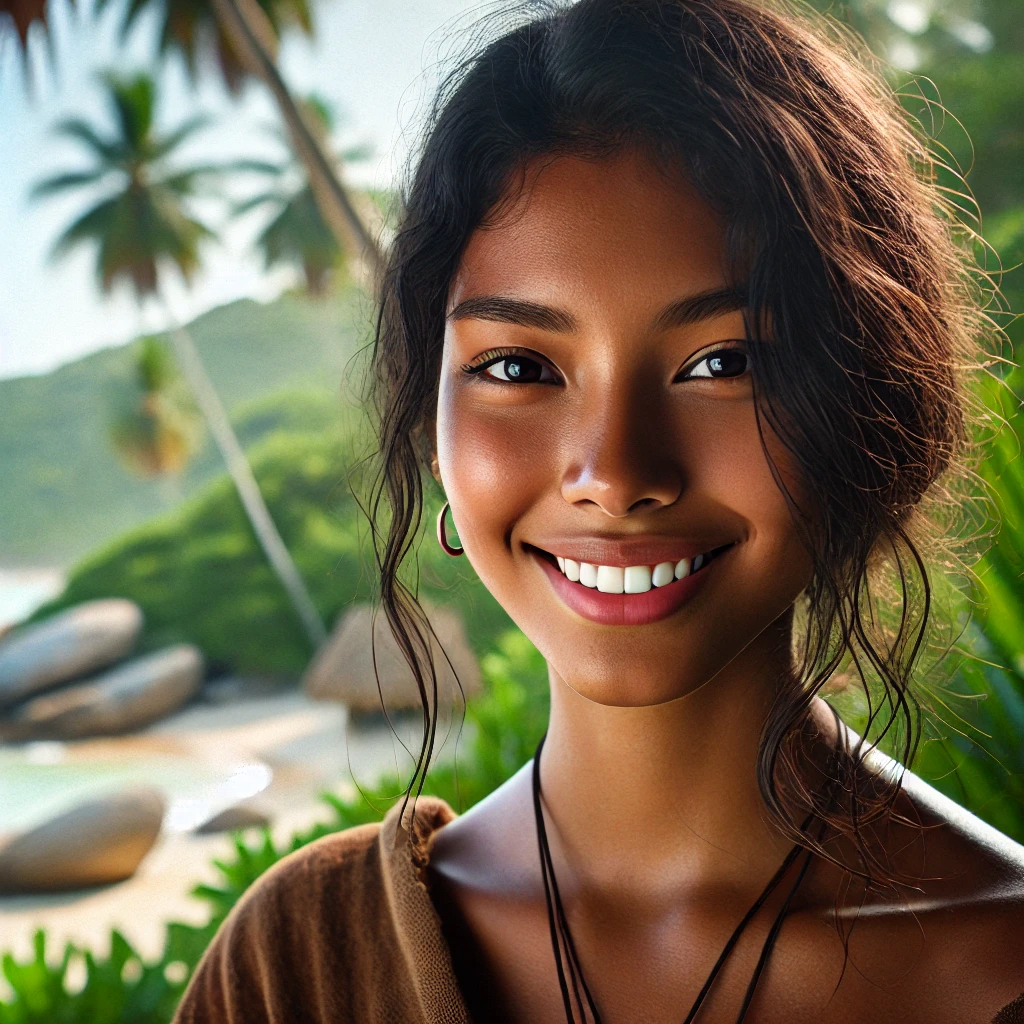
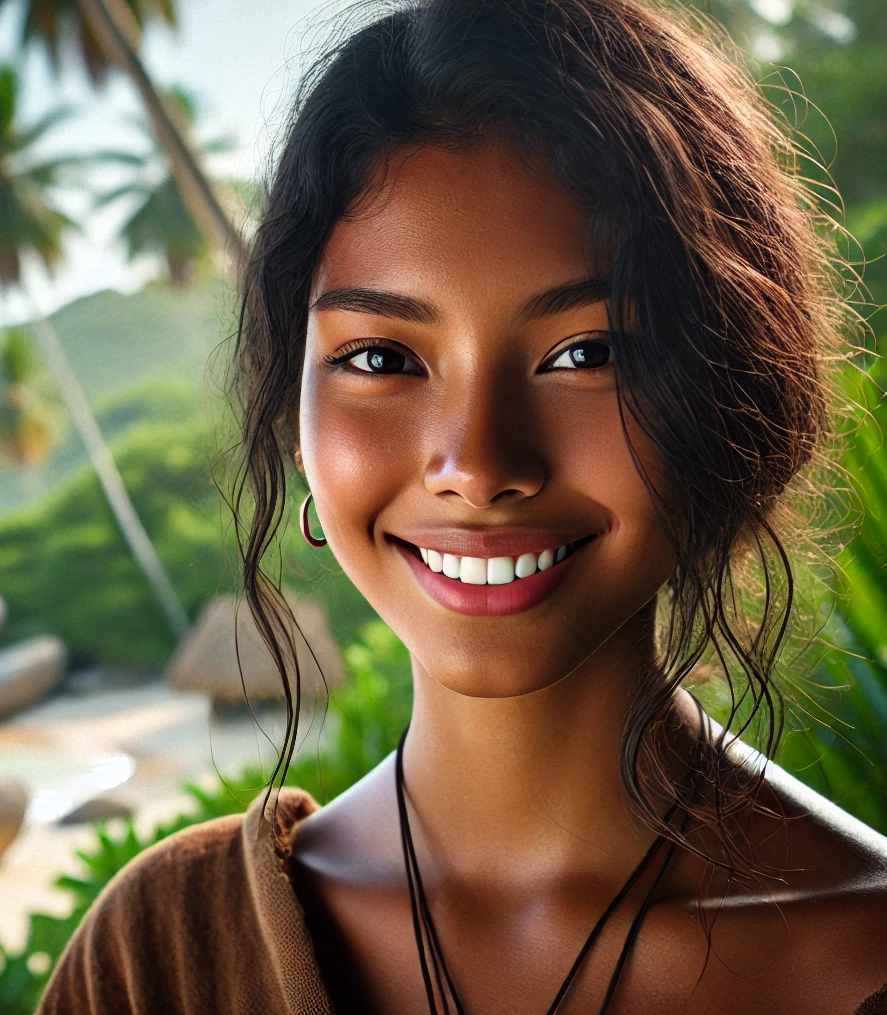
Ajustando responsive

diff --git a/Login/style.css/login.css b/Login/style.css/login.css
@@ -30,7 +30,7 @@
     flex-direction: column;
     min-height: 100vh;
     height: 100%;
-    overflow: hidden;
+    overflow: flex;
   }
   
   /* Estilos del header basados en el diseño de Figma */
@@ -60,7 +60,7 @@
   
   .navbar {
     display: flex;
-    gap: 1rem;
+    gap: 8rem;
     align-items: center;
   }
   
@@ -79,7 +79,7 @@
   .navbar-actions {
     display: flex;
     align-items: center;
-    gap: 1.5rem;
+    gap: 2rem;
   }
   
   .btn-login,
@@ -115,26 +115,39 @@
     align-items: center;
   }
   
-  /* Estilos del contenido principal */
+
+.button-container {
+  display: flex;
+  justify-content: center;
+  width: 35rem;
+}
+
+
   .login-container {
     display: flex;
     flex: 1;
     height: calc(100vh - 7.5rem); /* Altura total menos la altura del header */
     margin-top: 7.5rem; /* Altura del header */
+    text-shadow: 0.5px 0.5px;
+
   }
   
-  .login-image {
-    flex: 1;
+  .login-image{
     background-color:transparent; 
     display: flex;
+    width: 400px;
+    height: auto;
+    border-radius: 10px;
+    max-width: 100%;
     overflow: hidden;
   }
   
   .login-form-container {
-    flex: 1;
-    display: flex;
-    justify-content:  center;
-    align-items: center  ;
+      flex: 1;
+      display: flex;
+      justify-content:  center;
+      align-items: center  ;
+      padding: 5%;
   }
   
   .login-form-wrapper {
@@ -142,14 +155,15 @@
     max-width: 30rem;
     display: flex;
     flex-direction: column;
-    padding: 2rem;
+    padding: 1rem;
     align-items: center;
   }
 
   .logo-container{
     display: flex;
     justify-content: center;
-    margin-bottom: 1rem;
+    margin-bottom: 0rem;
+    margin-top: -10rem;
 
   }
 
@@ -192,10 +206,11 @@
   }
 
   .login-title {
-    font-size: 4rem;
+    font-family: "Montserrat", sans-serif;
+    font-size: 3.6rem;
     color: var(--tierra);
-    margin-top: 6rem;
-    margin-bottom: 6rem;
+    margin-top: 3rem;
+    margin-bottom: 3rem;
     height: 100px;
     font-weight: 700;
     text-align: center;
@@ -230,18 +245,22 @@
   }
   
   .login-button {
+    font-family: "Montserrat", sans-serif;
     width: 80%;
     padding: 1.2rem;
     background-color: var(--arcilla);
     color: white;
     border-radius: 10px;
     font-size: 1.6rem;
-    font-weight: 600;
+    font-weight: 700;;
     cursor: pointer;
-    transition: background-color 0.1s;
+    transition: background-color 0.3s;
     height: auto;
+    display: flex;
+    justify-content: center;
     align-items: center;
   }
+  
   
   .login-button:hover {
     background-color: var(--tierra);
@@ -269,22 +288,24 @@
     display: flex;
     justify-content: space-between;
     flex-wrap: wrap;
-    gap: 2rem;
+    gap: 10rem;
   }
   
   .footer-section {
+    font-family: "Raleway", sans-serif;
+    font-size: 1.5rem;
     flex: 1;
-    min-width: 20rem;
+    min-width: 10rem;
   }
   
   .footer-section h3 {
     font-size: 1.6rem;
-    margin-bottom: 1.5rem;
+    margin-bottom: 2rem;
   }
   
   .social-icons {
     display: flex;
-    gap: 1.5rem;
+    gap: 2rem;
   }
   
   .newsletter-form {
@@ -314,35 +335,90 @@
     border-top: 1px solid rgba(255, 255, 255, 0.1);
   }
   
-  /* Media queries para responsive */
-  @media (max-width: 768px) {
+  /* Para responsive */
+  @media (max-width: 900px) {
     .login-container {
       flex-direction: column;
-      padding: 1.5rem 5%;
-    }
-    
-    .login-image {
-      height: 8rem;
     }
     
     .footer-content {
       flex-direction: column;
     }
+  
+    .login-form-container {
+      padding: 2rem;
+    }
+    
+    .login-form-wrapper {
+      padding: 1rem;
+    }
+    
+    .login-title {
+      font-size: 3rem;
+      margin-bottom: 2rem;
+    }
+
+    .img-container{
+        max-width: 100%;
+        height: auto;
+}
+  
   }
 
-  .image-container {
-    display:flex;
-    flex-direction: column;
-    width: 100%;
-    height: 100%;
-  }
-  
-  .login-img:first-child {
-    height: 50%; /* La primera imagen ocupa el 50% */
-  }
-  
-  .login-img:last-child {
-    height: 50%; /* La segunda imagen ocupa el 50% */
-  }
 
+
+  @media (max-width: 600px) {
+    .header {
+      padding: 1rem 5%;
+    }
+
+    .login-image {
+      display: flex;
+      max-height: 200px;
+      max-width:auto;
+      border-radius: 10px;
+      flex-direction: column;
+    }
+    
+    .navbar {
+      font-family: "Monteserrat", sans-serif;
+      font-size: 1.1rem;
+      display: flex;
+      ;
+    }
+    
+    .navbar a {
+      font-family: "Monteserrat", sans-serif;
+      font-size: 1.1rem;
+    }
+    
+    .btn-login, .btn-register {
+      padding: 0.6rem 1rem;
+      font-size: 1.2rem;
+    }
+    
+    .login-title {
+      font-size: 2.5rem;
+    }
+    
+    .form-group {
+      margin-bottom: 2rem;
+    }
+    
+    .login-button {
+      width: 100%;
+    }
+  }
   
+  /* Scroll touch para dispositivos móviles (por si acaso) */
+  @media (max-width: 768px) and (pointer: coarse) {
+    html, body {
+      overflow-y: auto;
+    }
+    
+    .login-container {
+      height: auto;
+      min-height: calc(100vh - 7.5rem);
+      
+    }
+  }

diff --git a/Login/login.html b/Login/login.html
@@ -12,6 +12,7 @@
     href="https://fonts.googleapis.com/css2?family=Montserrat:wght@400;500;600;700;800;900&family=Raleway:wght@300;400;500;600;700&display=swap"
     rel="stylesheet"
   />
+
     />
     <script src="https://unpkg.com/boxicons@2.1.4/dist/boxicons.js"></script>
   </head>
@@ -46,7 +47,7 @@
           <a href="#"
             ><box-icon
               name="cart"
-              color="#0a0a09"
+              color="#ffffff"
               style="width: 40px; height: 35px"
             ></box-icon
           ></a>
@@ -59,8 +60,8 @@
         <!-- Columna izquierda - Dos imágenes apiladas -->
     <div class="login-image">
       <div class="image-container">
-        <img src="./imagenes/imagen1.png" alt="Imagen 1" class="login-img" width="800" height="400">
-        <img src="./imagenes/imagen2.png" alt="Imagen 2" class="login-img" width="800" height="400">
+        <img src="./imagenes/imagen1.png" alt="Imagen 1" class="login-image" >
+        <img src="./imagenes/imagen2.png" alt="Imagen 2" class="login-image" >
       </div>
     </div>
       
@@ -120,6 +121,7 @@
         </div>
         
         <div class="footer-section">
+          <H3>Contáctenos</H3>
           <p>contacto@samay.co</p>
           <p>+57 321 000 0000</p>
           <p>Bogotá, Colombia</p>

diff --git a/Login/script.js/login.js b/Login/script.js/login.js
@@ -31,3 +31,25 @@ document.addEventListener('DOMContentLoaded', function() {
     });
   }
 });
+
+document.addEventListener('DOMContentLoaded', function() {
+  // Control del menú toggle en móvil
+  const menuToggle = document.getElementById('menu-toggle');
+  const navbar = document.getElementById('navbar');
+  
+  if (menuToggle) {
+    menuToggle.addEventListener('click', function() {
+      navbar.classList.toggle('active');
+    });
+  }
+  
+  // Manejo del formulario de login
+  const loginForm = document.querySelector('.login-form');
+  if (loginForm) {
+    loginForm.addEventListener('submit', function(e) {
+      e.preventDefault();
+      // Aquí iría la lógica de autenticación
+      console.log('Formulario enviado');
+    });
+  }
+});
